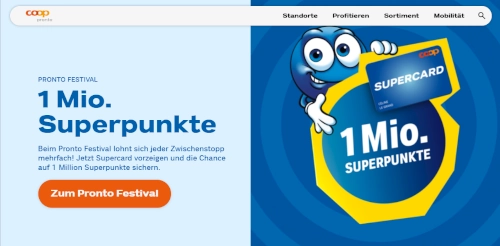
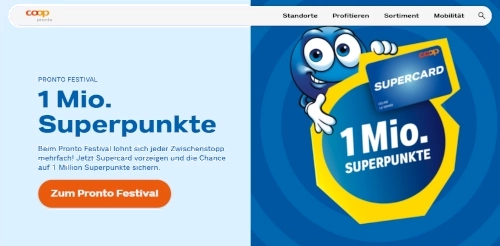
more work cards, new font, feda up animation sooner

diff --git a/index.html b/index.html
@@ -20,11 +20,7 @@
 	<meta name='apple-touch-fullscreen' content='yes'>
 	<link rel="canonical" href="https://mario-nano.com/" />
 	<link rel="preconnect" href="https://fonts.googleapis.com">
-	<link rel="preconnect" href="https://ghchart.rshah.org">
-	<link
-		rel="stylesheet"
-		href="https://fonts.googleapis.com/css2?family=Source+Code+Pro:wght@300;400;500;600;700;900&display=swap"
-	/>
+	<link href="https://fonts.googleapis.com/css2?family=Noto+Sans:ital,wght@0,100..900;1,100..900&display=swap" rel="stylesheet">
 	<link
 		rel="stylesheet"
 		href="https://fonts.googleapis.com/css2?family=Alata&display=swap"
@@ -348,25 +344,6 @@
 		<div class="work-section__container">
 			<div class="work-section__card">
 				<img
-					src="./src/images/barnDoor.jpg"
-					alt="Barn Door project screenshot"
-					class="work-section__card-image"
-				/>
-				<div class="work-section__card-text">
-					<div class="work-section__card-title">barn-door.sk</div>
-					<div class="work-section__card-description">
-						A simple static website for a small sliding door online shop. My very first deployed website.
-					</div>
-					<div class="work-section__card-tags">
-						<div class="work-section__card-tag">HTML</div>
-						<div class="work-section__card-tag">CSS</div>
-						<div class="work-section__card-tag">SASS</div>
-						<div class="work-section__card-tag">JS</div>
-					</div>
-				</div>
-			</div>
-			<div class="work-section__card">
-				<img
 					src="./src/images/coop.webp"
 					alt="coop pronto website image"
 					class="work-section__card-image"
@@ -422,6 +399,63 @@
 						<div class="work-section__card-tag">Craft CMS</div>
 						<div class="work-section__card-tag">Twig</div>
 						<div class="work-section__card-tag">SCSS</div>
+					</div>
+				</div>
+			</div>
+			<div class="work-section__card">
+				<img
+					src="./src/images/ulis.webp"
+					alt="ulis project screenshot"
+					class="work-section__card-image"
+				/>
+				<div class="work-section__card-text">
+					<div class="work-section__card-title">ulis.org</div>
+					<div class="work-section__card-description">
+						A simple static website for a small sliding door online shop. My very first deployed website.
+					</div>
+					<div class="work-section__card-tags">
+						<div class="work-section__card-tag">HTML</div>
+						<div class="work-section__card-tag">CSS</div>
+						<div class="work-section__card-tag">SASS</div>
+						<div class="work-section__card-tag">JS</div>
+					</div>
+				</div>
+			</div>
+			<div class="work-section__card">
+				<img
+					src="./src/images/vskbnet.webp"
+					alt="vskb net project screenshot"
+					class="work-section__card-image"
+				/>
+				<div class="work-section__card-text">
+					<div class="work-section__card-title">vskb.net</div>
+					<div class="work-section__card-description">
+						A simple static website for a small sliding door online shop. My very first deployed website.
+					</div>
+					<div class="work-section__card-tags">
+						<div class="work-section__card-tag">HTML</div>
+						<div class="work-section__card-tag">CSS</div>
+						<div class="work-section__card-tag">SASS</div>
+						<div class="work-section__card-tag">JS</div>
+					</div>
+				</div>
+			</div>
+			<div class="work-section__card">
+				<img
+					src="./src/images/barnDoor.jpg"
+					alt="Barn Door project screenshot"
+					class="work-section__card-image"
+				/>
+				<div class="work-section__card-text">
+					<div class="work-section__card-title">barn-door.sk</div>
+					<div class="work-section__card-description">
+						A simple static website for a small sliding door online shop. My very first deployed website.
+					</div>
+					<div class="work-section__card-tags">
+						<div class="work-section__card-tag">HTML</div>
+						<div class="work-section__card-tag">CSS</div>
+						<div class="work-section__card-tag">SASS</div>
+						<div class="work-section__card-tag">JS</div>
 					</div>
 				</div>
 			</div>

diff --git a/src/styles/style.css b/src/styles/style.css
@@ -102,7 +102,7 @@ video {
 	width: 12px;
 	height: 12px;
 	left: -1500px;
-	border-radius: 15px;
+	/*border-radius: 15px;*/
 	background-color: var(--alt-color);
 	opacity: 0;
 }
@@ -112,7 +112,7 @@ video {
 	height: 12px;
 	transform: translateY(-3.5rem) translateX(-2rem);
 	background-color: var(--alt-color);
-	border-radius: 15px;
+	/*border-radius: 15px;*/
 	opacity: 0;
 }
 
@@ -166,12 +166,13 @@ video {
 section:not(:nth-of-type(2)):not(:last-of-type) .horizontal-line {
 	margin: 10rem auto 0.5rem;
 }
+/* TODO: scroll margin for about section always scrolls too far */
 
 section {
 	scroll-margin-top: 1rem;
 	display: flex;
 	flex-direction: column;
-	justify-content: center;
+	justify-content: flex-start;
 	margin: 0 auto;
 	max-width: 1280px;
 	width: 100%;
@@ -213,7 +214,7 @@ section {
 
 section:not(#contact-section) {
 	height: 100%;
-	min-height: 100svh;
+	min-height: 100vh;
 }
 
 .section-title {
@@ -223,6 +224,7 @@ section:not(#contact-section) {
 	color: var(--alt-color);
 	max-width: 1280px;
 	font-family: "Silkscreen", "sans-serif";
+	justify-self: flex-start;
 }
 
 @media (min-width: 768px) {
@@ -639,21 +641,27 @@ section:not(#contact-section) {
 
 .work-section__container {
 	gap: 2rem;
+	margin-bottom: 10rem;
 }
 /* TODO: have AI put all section media queries under the appropriate section */
+
 @media (min-width: 576px) {
 	.work-section__container {
 		flex-flow: row wrap;
-
 	}
 }
 
 .work-section__card {
 	display: flex;
 	flex-direction: column;
-	border-bottom: 1px solid #000;
+	/*border-bottom: 1px solid #000;*/
 	background-color: #f5f3f3;
 	padding-bottom: 1rem;
+	-webkit-mask-image: linear-gradient(to bottom, black calc(100% - 3rem), transparent 100%);
+	mask-image: linear-gradient(to bottom, black calc(100% - 3rem), transparent 100%);
+	opacity: 0;
+	transform: translateY(5rem);
+	transition: opacity 1s, transform 1s;
 }
 
 @media (min-width: 576px) {
@@ -666,6 +674,11 @@ section:not(#contact-section) {
 	.work-section__card {
 		max-width: calc(33.33% - 1.35rem);
 	}
+}
+
+.work-section__card.fade-up {
+	opacity: 1;
+	transform: translateY(0rem);
 }
 
 .work-section__card-image {
@@ -684,6 +697,7 @@ section:not(#contact-section) {
 
 .work-section__card-title {
 	font-size: 1.5rem;
+	font-weight: bold;
 }
 
 .work-section__card-description {

diff --git a/src/scripts/app.js b/src/scripts/app.js
@@ -22,7 +22,8 @@ const navbar = document.querySelector(".navbar");
 const storyImage = document.querySelector(".about-section__story-image");
 const storyElem = document.querySelector(".about-section__story-text");
 const skillElem = document.querySelectorAll(".skills-section__skill");
-const certificatesElem = document.querySelectorAll(".certificates-section__cert-image-container")
+const certificatesElem = document.querySelectorAll(".certificates-section__cert-image-container");
+const workElem = document.querySelectorAll(".work-section__card");
 
 let vHeight;
 let vWidth;
@@ -97,7 +98,7 @@ function syncCircleStaticScale() {
 		circleRect.bottom > staticRect.top
 	);
 	circleStatic.style.transform = intersects ? 'scale(2)' : 'scale(1)';
-	circleStatic.style.borderRadius = intersects ? '0px' : '15px';
+	// circleStatic.style.borderRadius = intersects ? '0px' : '15px';
 }
 
 function syncLine() {
@@ -146,7 +147,7 @@ window.addEventListener('load', () => {
 
 	modal();
 	setFooterDate();
-	fadeInElementsOnScroll(vWidth, storyElem, skillElem, certificatesElem);
+	fadeInElementsOnScroll(vWidth, storyElem, skillElem, certificatesElem, workElem);
 	},
 	true
 );

diff --git a/src/scripts/fadeInElementsOnScroll.js b/src/scripts/fadeInElementsOnScroll.js
@@ -1,4 +1,4 @@
-const fadeInElementsOnScroll = (vWidth, storyElem, skillElem, certificatesElem) => {
+const fadeInElementsOnScroll = (vWidth, storyElem, skillElem, certificatesElem, workElem) => {
 	const storyObserver = new IntersectionObserver((entries) => {
 		entries.forEach(entry => {
 			if (entry.isIntersecting) {
@@ -15,13 +15,19 @@ const fadeInElementsOnScroll = (vWidth, storyElem, skillElem, certificatesElem) 
 				entry.target.classList.add("fade-up");
 			}
 		});
-	}, { root: null, rootMargin: '0px', threshold: 1 });
+	}, { root: null, rootMargin: '0px', threshold: 0.5 });
 
 	storyObserver.observe(storyElem);
 	skillElem.forEach(skill => skillObserver.observe(skill));
+
 	certificatesElem.forEach((cert, index) => {
 		cert.style.transitionDelay = `${index * 150}ms`;
 		skillObserver.observe(cert);
+	});
+
+	workElem.forEach((card, index) => {
+		card.style.transitionDelay = `${index * 150}ms`;
+		skillObserver.observe(card);
 	});
 };
 

diff --git a/src/styles/globals.css b/src/styles/globals.css
@@ -23,7 +23,7 @@ html {
 body {
 	background-color: var(--bg-color);
 	color: var(--font-color);
-	font-family: "Alata", "sans-serif";
+	font-family: "Noto Sans", "sans-serif";
 	font-size: 100%;
 	width: 100vw;
 	overflow-x: hidden;
@@ -46,7 +46,7 @@ h2,
 h3,
 h4,
 h5 {
-	font-family: "Alata", "sans-serif";
+	font-family: "Noto Sans", "sans-serif";
 }
 
 body::-webkit-scrollbar {
